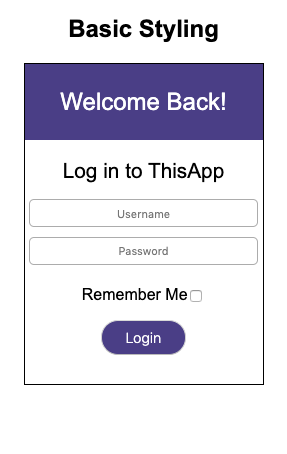
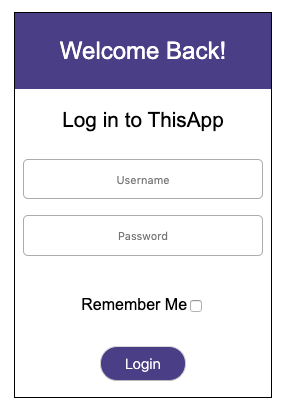
renders codedata in materialui comp, adds titles to the navigation items

diff --git a/client/src/components/CodeData.js b/client/src/components/CodeData.js
@@ -1,7 +1,3 @@
-//get request for the data,
-//accepting props to dynamically set the correct URL
-//set the data in state, render the data in the return
-
 import React, { useEffect, useState } from "react";
 import axios from "axios";
 import { MenuItem, Select } from "@material-ui/core";
@@ -78,36 +74,38 @@ function CodeData(props) {
           </SyntaxHighlighter>
         )}
       </div>
-      <div className="box">
-        <h1>SASS Code:</h1>
-        <Select
-          variant="outlined"
-          value={sassStyle}
-          onChange={e => setSassStyle(e.target.value)}
-        >
-          <MenuItem value={atomDark}>AtomDark</MenuItem>
-          <MenuItem value={coy}>Coy</MenuItem>
-          <MenuItem value={okaidia}>Okaidia</MenuItem>
-          <MenuItem value={solarizedlight}>Solarizedlight</MenuItem>
-          <MenuItem value={tomorrow}>Tomorrow</MenuItem>
-          <MenuItem value={twilight}>Twilight</MenuItem>
-          <MenuItem value={prism}>Prism</MenuItem>
-          <MenuItem value={dark}>Dark</MenuItem>
-          <MenuItem value={darcula}>Darcula</MenuItem>
-          <MenuItem value={hopscotch}>Hopscotch</MenuItem>
-          <MenuItem value={vs}>VS</MenuItem>
-          <MenuItem value={xonokai}>Xonokai</MenuItem>
-        </Select>
-        {jsxData && (
-          <SyntaxHighlighter
-            className="code-box"
-            language="sass"
-            style={sassStyle}
+      {props.styles && (
+        <div className="box">
+          <h1>SASS Code:</h1>
+          <Select
+            variant="outlined"
+            value={sassStyle}
+            onChange={e => setSassStyle(e.target.value)}
           >
-            {sassData}
-          </SyntaxHighlighter>
-        )}
-      </div>
+            <MenuItem value={atomDark}>AtomDark</MenuItem>
+            <MenuItem value={coy}>Coy</MenuItem>
+            <MenuItem value={okaidia}>Okaidia</MenuItem>
+            <MenuItem value={solarizedlight}>Solarizedlight</MenuItem>
+            <MenuItem value={tomorrow}>Tomorrow</MenuItem>
+            <MenuItem value={twilight}>Twilight</MenuItem>
+            <MenuItem value={prism}>Prism</MenuItem>
+            <MenuItem value={dark}>Dark</MenuItem>
+            <MenuItem value={darcula}>Darcula</MenuItem>
+            <MenuItem value={hopscotch}>Hopscotch</MenuItem>
+            <MenuItem value={vs}>VS</MenuItem>
+            <MenuItem value={xonokai}>Xonokai</MenuItem>
+          </Select>
+          {jsxData && (
+            <SyntaxHighlighter
+              className="code-box"
+              language="sass"
+              style={sassStyle}
+            >
+              {sassData}
+            </SyntaxHighlighter>
+          )}
+        </div>
+      )}
     </div>
   );
 }

diff --git a/client/src/components/Navigation.js b/client/src/components/Navigation.js
@@ -8,29 +8,26 @@ import materialuibasic from "../images/materialuibasic.png";
 function Navigation() {
   return (
     <div className="navigation-container">
-      <div className="intro">Click the desired example to view the code</div>
+      <div className="intro">Click the example to view the code 👀</div>
       <div className="mobile-all">
         <Mobile
+          title="No Styling"
           image={nostyling}
           linkTo={"/no-styling"}
           alt={"form with no styling"}
         />
         <Mobile
+          title="Basic Styling (SASS)"
           image={basicstyling}
           linkTo={"/basic-styling"}
           alt={"form with basic styling"}
         />
         <Mobile
+          title="Basic Material-UI"
           image={materialuibasic}
           linkTo={"/materialui-basic"}
           alt={"form styled with basic material-u-i components"}
         />
-        <Mobile
-          image={"https://docs.webix.com/media/desktop/htmlform.png"}
-          linkTo={"/materialui-custom"}
-          alt={"form styled with customized material-u-i components"}
-        />
-        {/* <NavLink to="/no-styling">No Styling</NavLink> */}
       </div>
     </div>
   );
@@ -38,13 +35,16 @@ function Navigation() {
 
 function Mobile(props) {
   return (
-    <div className="mobile-container">
-      <Link to={props.linkTo}>
-        <div className="mobile">
-          <img className="image" src={props.image} alt={props.alt} />
-          <div className="home-button"></div>
-        </div>
-      </Link>
+    <div className="card">
+      <h1>{props.title}</h1>
+      <div className="mobile-container">
+        <Link to={props.linkTo}>
+          <div className="mobile">
+            <img className="image" src={props.image} alt={props.alt} />
+            <div className="home-button"></div>
+          </div>
+        </Link>
+      </div>
     </div>
   );
 }

diff --git a/client/src/styles/navigation.scss b/client/src/styles/navigation.scss
@@ -17,32 +17,44 @@
     flex-flow: row wrap;
     justify-content: center;
 
-    .mobile-container {
-      margin: 1rem;
+    .card {
+      text-align: center;
+      font-family: -apple-system, BlinkMacSystemFont, "Segoe UI", Roboto, Oxygen,
+        Ubuntu, Cantarell, "Open Sans", "Helvetica Neue", sans-serif;
 
-      .mobile {
-        height: 25rem;
-        width: 15rem;
-        background: darkslategray;
-        border-radius: 20px;
-        display: flex;
-        flex-direction: column;
-        align-items: center;
-        justify-content: space-around;
-        box-shadow: 4px 4px rgb(34, 34, 34), 6px 8px 7px rgb(34, 34, 34);
+      h1 {
+        font-size: 1.5rem;
+        font-weight: 400;
+      }
 
-        .image {
-          height: 75%;
-          width: 85%;
-          border-radius: 10px;
-          box-shadow: 1px 1px 3px rgb(34, 34, 34), -1px -1px 3px rgb(34, 34, 34);
-        }
+      .mobile-container {
+        margin: 1rem;
 
-        .home-button {
-          height: 1.8rem;
-          width: 1.8rem;
-          background: white;
-          border-radius: 50%;
+        .mobile {
+          height: 25rem;
+          width: 15rem;
+          background: darkslategray;
+          border-radius: 20px;
+          display: flex;
+          flex-direction: column;
+          align-items: center;
+          justify-content: space-around;
+          box-shadow: 4px 4px rgb(34, 34, 34), 6px 8px 7px rgb(34, 34, 34);
+
+          .image {
+            height: 75%;
+            width: 85%;
+            border-radius: 10px;
+            box-shadow: 1px 1px 3px rgb(34, 34, 34),
+              -1px -1px 3px rgb(34, 34, 34);
+          }
+
+          .home-button {
+            height: 1.8rem;
+            width: 1.8rem;
+            background: white;
+            border-radius: 50%;
+          }
         }
       }
     }

diff --git a/client/src/styles/basicstyling.scss b/client/src/styles/basicstyling.scss
@@ -1,12 +1,11 @@
 .basic-styling-container {
-  //   width: 18rem;
   font-family: Arial, Helvetica, sans-serif;
   text-align: center;
 
   .login-box {
     border: 1px solid black;
-    height: 20rem;
-    width: 15rem;
+    height: 24rem;
+    width: 16rem;
     display: flex;
     flex-direction: column;
 
@@ -20,7 +19,7 @@
     }
 
     h4 {
-      margin: 1.2rem 0 0.7rem 0;
+      margin: 1.2rem;
       font-size: 1.3rem;
       font-weight: lighter;
     }
@@ -33,8 +32,8 @@
         justify-content: space-evenly;
 
         input {
-          height: 1.8rem;
-          margin: 0.3rem;
+          height: 3rem;
+          margin: 0.5rem;
           border-radius: 5px;
           text-align: center;
           border: 0.5px solid rgb(172, 172, 172);
@@ -48,7 +47,7 @@
 
       .check {
         display: block;
-        margin: 1rem;
+        margin: 2rem;
 
         input {
           cursor: pointer;

diff --git a/client/src/components/styled-comps/MaterialUIBasic.js b/client/src/components/styled-comps/MaterialUIBasic.js
@@ -11,6 +11,8 @@ import {
   Button
 } from "@material-ui/core";
 
+import CodeData from "../CodeData";
+
 function MaterialUIBasic() {
   return (
     <div className="Main material-ui-basic">
@@ -47,6 +49,14 @@ function MaterialUIBasic() {
           </Button>
         </FormGroup>
       </Container>
+      <CodeData
+        url={
+          "https://raw.githubusercontent.com/kmcknight1/basic-styling/master/client/src/components/styled-comps/MaterialUIBasic.js"
+        }
+        styles={
+          "https://raw.githubusercontent.com/kmcknight1/basic-styling/master/client/src/styles/materialuibasic.scss"
+        }
+      />
     </div>
   );
 }

diff --git a/client/src/styles/global.scss b/client/src/styles/global.scss
@@ -11,10 +11,11 @@ body {
   }
 }
 
-.page {
+.nostyling-page {
   border: 1px solid black;
   padding: 1rem;
   width: 15rem;
+  height: 20rem;
 }
 
 .link {
@@ -34,9 +35,3 @@ body {
     text-decoration: underline;
   }
 }
-
-// .nostyling {
-//   display: flex;
-//   justify-content: center;
-//   align-items: center;
-// }

diff --git a/client/src/components/styled-comps/NoStyling.js b/client/src/components/styled-comps/NoStyling.js
@@ -11,8 +11,9 @@ function NoStyling() {
         Back to Home
       </NavLink>
       <h1>No Styling</h1>
-      <div className="page">
+      <div className="nostyling-page">
         <h2>Welcome Back!</h2>
+        <h3>Login to ThisApp</h3>
         <br />
         <form>
           <label>
